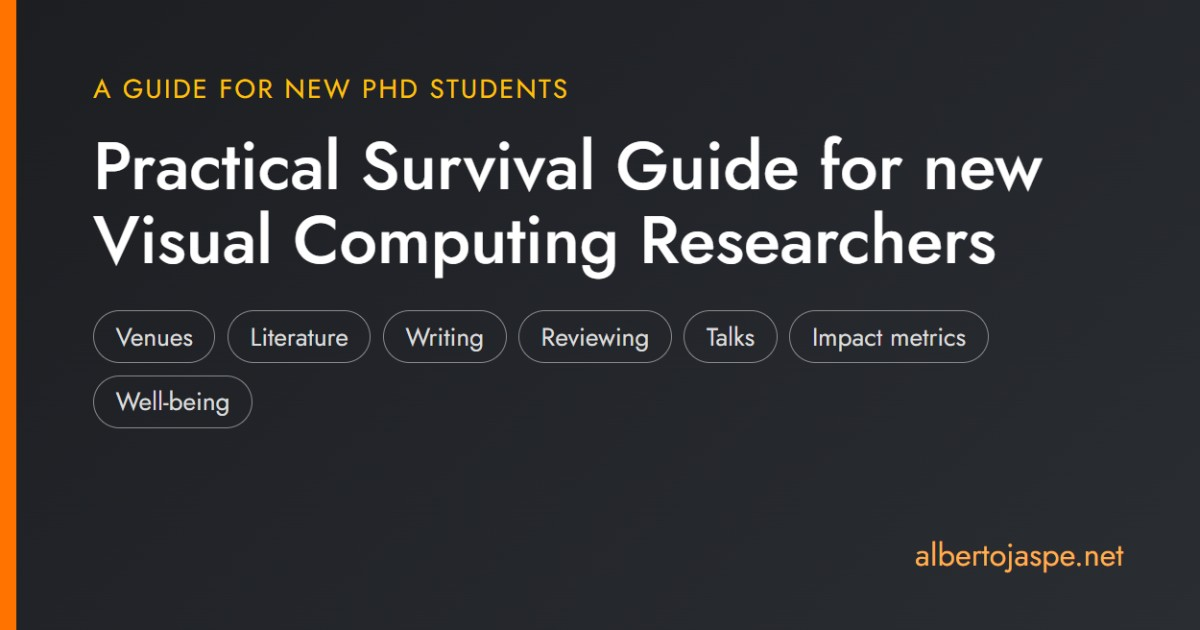
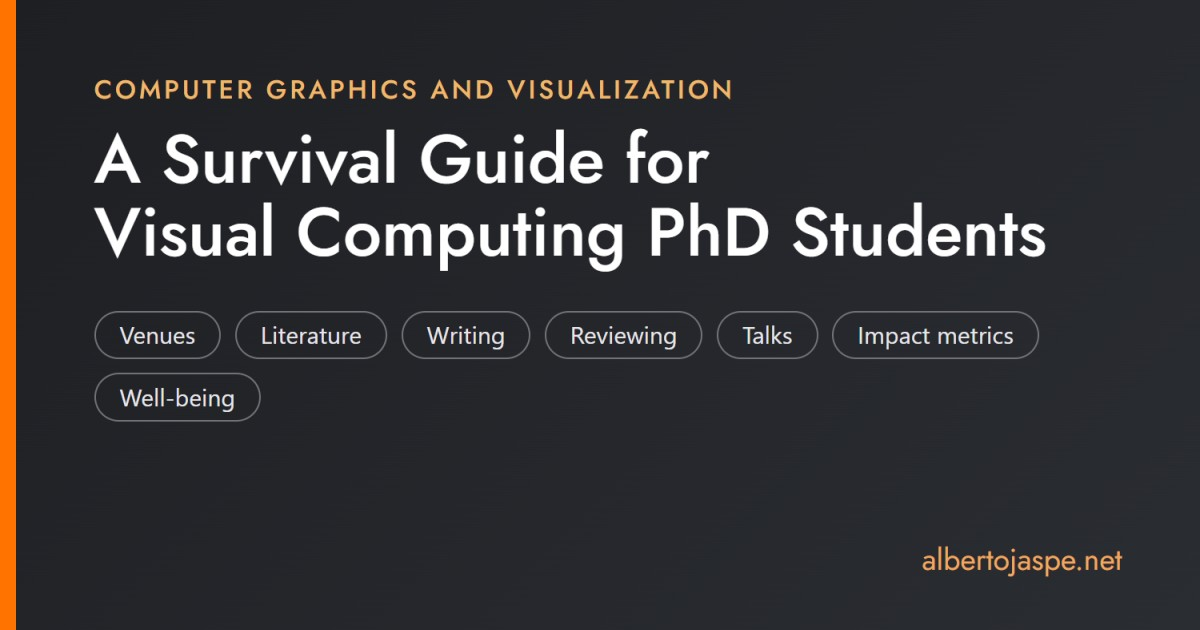
Guide renamed to A Survival Guide for Visual Computing PhD Students; new share card; Desk description and first sentence aligned

diff --git a/_notes/visual-computing-survival-guide.md b/_notes/visual-computing-survival-guide.md
@@ -1,5 +1,5 @@
 ---
-title: Practical Survival Guide for new Visual Computing Researchers
+title: A Survival Guide for Visual Computing PhD Students
 description: "A quick-start guide for new PhD students in computer graphics and visualization: venues, literature, writing, reviewing, talks, impact metrics and well-being."
 layout: note
 kind: living
@@ -11,7 +11,7 @@ thumb_img: "assets/img/thumb_guide.jpg"
 updated: 2026-10-23
 ---
 
-This small guide aims to be a quick-start introduction to common terms and procedures for a computer science researcher. Some aspects are generic, and others are more oriented to the field of Visual Computing, specifically Computer Graphics and Visualization.
+This small guide aims to be a quick-start introduction to common terms and procedures for a PhD student in computer science. Some aspects are generic, and others are more oriented to the field of Visual Computing, specifically Computer Graphics and Visualization.
 
 ## Finding a research topic
 That is your advisor's responsibility :) Apart from that, there are some places to look for inspiration:

diff --git a/desk.md b/desk.md
@@ -1,6 +1,6 @@
 ---
 title: The Desk
-description: "Guides and resources, occasional opinion posts and live demos by Alberto Jaspe-Villanueva: conference deadlines, a survival guide for new visual computing researchers, X3D Copilot, MARLIE and more."
+description: "Guides and resources, occasional opinion posts and live demos by Alberto Jaspe-Villanueva: conference deadlines, a survival guide for visual computing PhD students, X3D Copilot, MARLIE and more."
 menu_title: Desk
 order: 3
 permalink: /desk/
